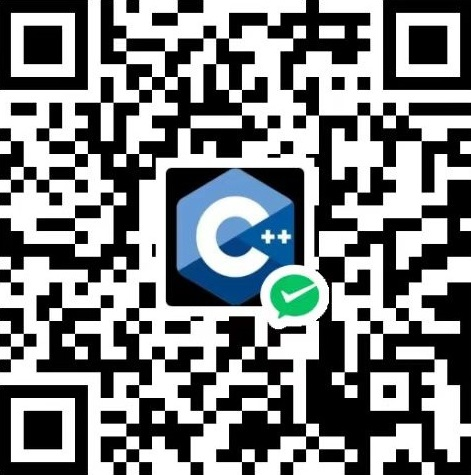
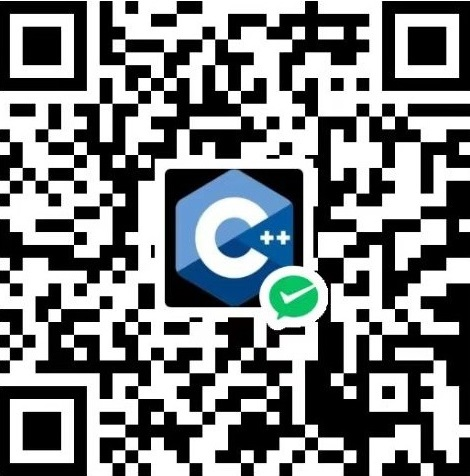
服了

diff --git a/appAPL/homework/index.html b/appAPL/homework/index.html
@@ -11,7 +11,7 @@
 <body>  
     <div class="container">  
         <div class="clickable-element" data-content="<h1>果园AI是一款由果园工作室（果园编程）制作的AI</h1><h1><a class=button href='\AI\index.html'>AI</a></h1><h2>请遵守以下协议，我们会在允许范围内收集你的隐私信息:</h2><h1><a class=button href='\协议\uesr.html'>用户协议</a><a class=button href='\协议\privacy.html'>隐私协议</a></h1>" onclick="showPopup(this)">果园AI</div>
-        <div class="clickable-element" data-content='<h1>打赏一下吧</h1><h3>本网站由站主一个人完成，没有人帮忙，都这样了还不打赏一下么？</h3><img src="打赏.jpg" alt="无法访问，可能是站主被抓走了"><h3>啊谢谢谢谢谢谢谢谢谢谢谢谢</h3><h4>本网站收到的捐款会用于网站建设（我当然也抽一点啦）' onclick="showPopup(this)" >捐款</div>
+        <div class="clickable-element" data-content='<h1>打赏一下吧</h1><h3>本网站由站主一个人完成，没有人帮忙，都这样了还不打赏一下么？</h3><img src="打赏.jpg" alt="无法访问，可能是站主被抓走了" width="235" height="238"><h3>啊谢谢谢谢谢谢谢谢谢谢谢谢</h3><h4>本网站收到的捐款会用于网站建设（我当然也抽一点啦）' onclick="showPopup(this)" >捐款</div>
         <div class="clickable-element" data-content="<h3>语文:</h3><p>1.全拼练习册《纪念白求恩》</p><p>2.课时默写《纪念白求恩》</p><p>3.背《纪念白求恩》第四自然段</p><h3>英语:</h3><p>1.P44-P45单词抄6遍</p><p>2.P45-2a课文抄一遍</p><p>3.全品练习册P47-P49写完</p><p>4.驰声</p><h3>数学:</h3><p>1.全品练习册3.2.1(反正就是第三章第二课的第一课时)</p><p>2.同步练习册3.2.1(反正就是第三章第二课的第一课时)</p><h3>地理:</h3><p>1.一张卷</p><h3>生物:</h3><p>1.P66综合运用</p>" onclick="showPopup(this)">2024/11/1-2024/11/3作业</div>  
     </div>  
   

diff --git a/appAPL/homework/styles.css b/appAPL/homework/styles.css
@@ -25,13 +25,8 @@ h1, h2, h3, h4, h5, h6, p {
     color: white;
 }
 
-h1,h2,img {
+h1,h2 {
     text-align: center;
-}
-
-img {
-    width: 60%; /* 宽度填满容器 */
-    height: auto; /* 高度自动，保持图片比例 */
 }
 
 h2 {
